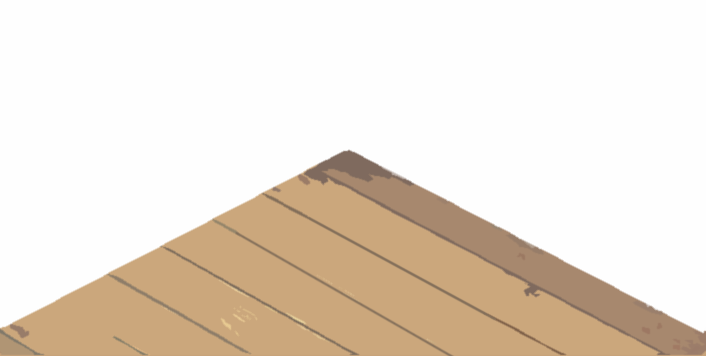
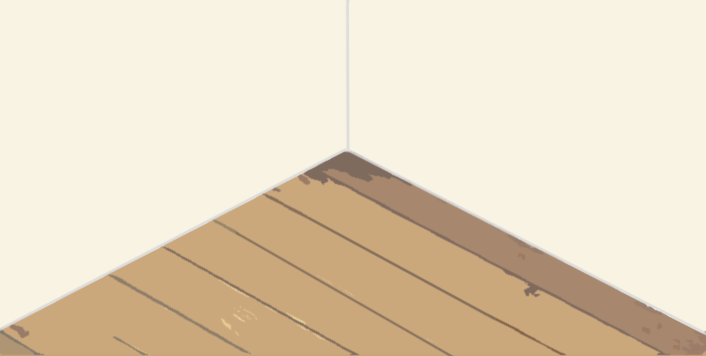
메인룸 파비콘

diff --git a/src/main/resources/templates/fragment/main_layout.html b/src/main/resources/templates/fragment/main_layout.html
@@ -1,6 +1,11 @@
 <!DOCTYPE html>
 <html lang="ko" xmlns:th="http://www.thymeleaf.org" xmlns:layout="http://www.ultraq.net.nz/thymeleaf/layout">
 <head>
+    <!-- 파비콘 -->
+    <link rel="icon" type="image/png" sizes="32x32" href="/images/favicon-32x32.png">
+    <link rel="shortcut icon" href="/img/favi/favicon.ico">
+    <link rel="manifest" href="/img/favi/manifest.json">
+
 <meta charset="UTF-8">
 <title></title>
 <link href="https://cdn.jsdelivr.net/npm/bootstrap@5.3.1/dist/css/bootstrap.min.css" rel="stylesheet" integrity="sha384-4bw+/aepP/YC94hEpVNVgiZdgIC5+VKNBQNGCHeKRQN+PtmoHDEXuppvnDJzQIu9" crossorigin="anonymous">

diff --git a/src/main/resources/static/css/member.css b/src/main/resources/static/css/member.css
@@ -111,6 +111,14 @@
 
 
 /* 로그인페이지 */
+
+@font-face {
+    font-family: 'TAEBAEKfont';
+    src: url('https://cdn.jsdelivr.net/gh/projectnoonnu/noonfonts_2310@1.0/TAEBAEKfont.woff2') format('woff2');
+    font-weight: normal;
+    font-style: normal;
+}
+
 .login-board{
     width: 500px;
     height: 670px;
@@ -130,7 +138,8 @@
     position: absolute;
     bottom: 45%;
     left: 42%;
-    color: #89847b;
+    color: #444;
+    font-family: 'TAEBAEKfont';
 }
 .btn-close{
     position: absolute;

diff --git a/src/main/resources/static/css/main.css b/src/main/resources/static/css/main.css
@@ -10,7 +10,7 @@ body{
 
 #classRoom{
     position: relative;
-    background-image: url(/images/room_frame.jpg);
+    background-image: url(/images/wood.png);
     background-size: 100% auto;
     background-position: top;
     background-repeat: no-repeat;
